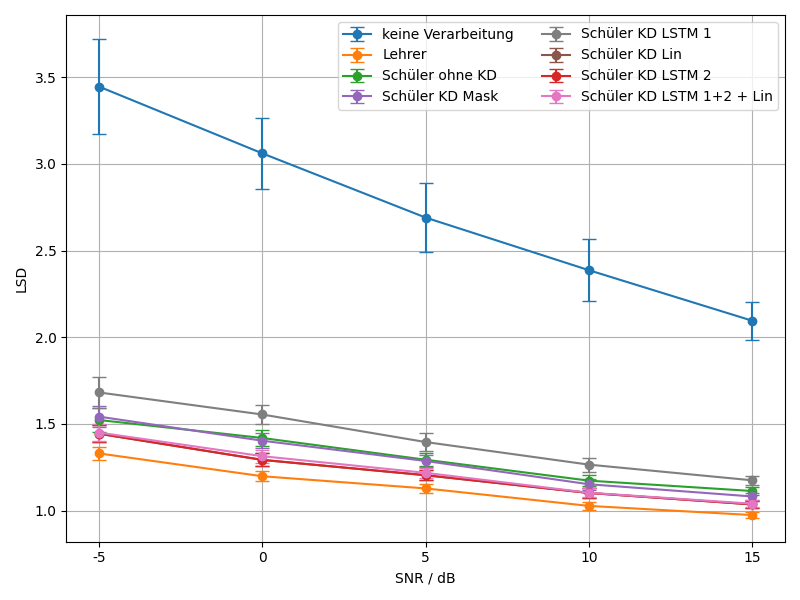
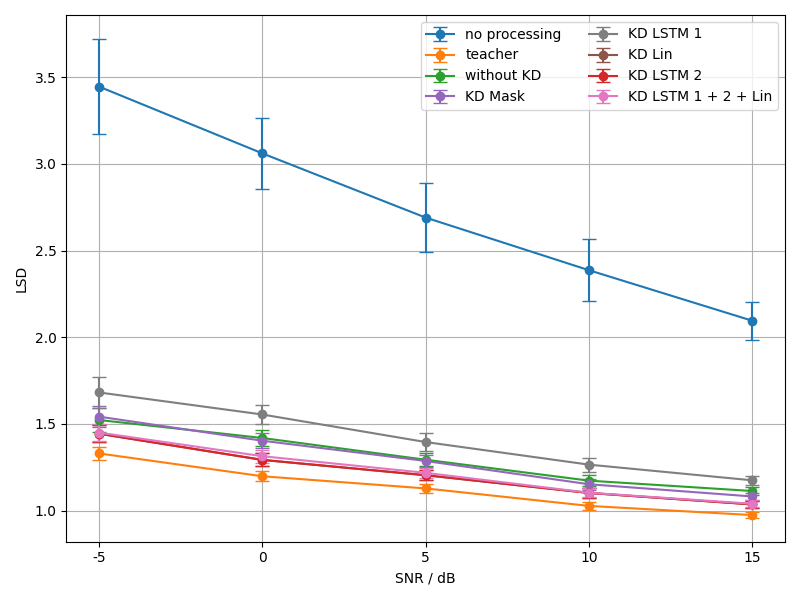
new plots for ITG Paper

Changed region(s): [[0.4375, 0.03, 0.9688, 0.18]]

diff --git a/scripts/plot_results.py b/scripts/plot_results.py
@@ -2,6 +2,7 @@ import pathlib
 import numpy as np
 import matplotlib.pyplot as plt
 import sys
+import os
 sys.path.insert(0, str(pathlib.Path(__file__).parent.parent))
 
 import metrics
@@ -9,30 +10,36 @@ from utils.json_handling import read_json
 
 cmap = plt.get_cmap('tab10')
 
-RESULTS_PATH = pathlib.Path('saved/test_output')
-MODELS_PATH = pathlib.Path('saved/models')
+parent_path = pathlib.Path(__file__).parent.parent
+RESULTS_PATH = parent_path.joinpath('saved/test_output')
+#RESULTS_PATH = pathlib.Path('saved/test_output')
+#MODELS_PATH = pathlib.Path('saved/models')
+MODELS_PATH = parent_path.joinpath('saved/models')
 
 out_folder = RESULTS_PATH.joinpath('plots')
 
 dict_list = [
-    {"configuration_name": 'noisy_oem_dummy', "run_string": 'default_run', "label": 'keine Verarbeitung', 'color': cmap(0), 'linestyle': '-'},
+    {"configuration_name": 'noisy_oem_dummy', "run_string": 'default_run', "label": 'no processing', 'color': cmap(0), 'linestyle': '-'},
     #{"configuration_name": 'diamond_5mic_tiny', "run_string": '0524_155539', "label": 'FT_JNF Tiny', 'color': cmap(1), 'linestyle': '-'}, # half model without KD
     #{"configuration_name": 'diamond_5mic_vtiny', "run_string": '0526_175613', "label": 'FT_JNF vTiny', 'color': cmap(2), 'linestyle': '-'}, # quarter model without KD
     #{"configuration_name": 'diamond_5mic_experiment', "run_string": '0502_161633', "label": 'FT_JNF', 'color': cmap(3), 'linestyle': '-'}, # teacher model
-    {"configuration_name": 'diamond_5mic_experiment', "run_string": '0801_143408', "label": 'Lehrer', 'color': cmap(1), 'linestyle': '-'}, # teacher with 8 batch size
+    {"configuration_name": 'diamond_5mic_experiment', "run_string": '0801_143408', "label": 'teacher', 'color': cmap(1), 'linestyle': '-'}, # teacher with 8 batch size
     #{"configuration_name": 'diamond_TwoSteps', "run_string": '0610_135810', "label": 'tiny FT_JNF KD MAE', 'color': cmap(6), 'linestyle': '-'}, # half model with elementwise absolute error with KD
     #{"configuration_name": 'diamond_TwoSteps', "run_string": '0614_233313', "label": 'vtiny FT_JNF KD MAE', 'color': cmap(7), 'linestyle': '-'}, # quarter model with elementwise absolute error with KD
-    {"configuration_name": "diamond_normal_trainlist", "run_string": '0917_105029', "label": 'Schüler ohne KD', 'color': cmap(2), 'linestyle': '-'}, # target model with normal training 64/16er: 0624_120334 5_mic_target
-    {"configuration_name": 'diamond_TwoSteps', "run_string": '0808_155225', "label": 'Schüler KD Mask', 'color': cmap(4), 'linestyle': '-'}, # target model with Mask KD MAE
-    {"configuration_name": 'diamond_TwoSteps', "run_string": '0701_172332', "label": 'Schüler KD LSTM 1', 'color': cmap(7), 'linestyle': '-'}, # target model with Regressor KD
-    {"configuration_name": 'diamond_LinD', "run_string": '0828_232658', "label": 'Schüler KD Lin', 'color': cmap(5), 'linestyle': '-'}, # target model MAE between Linear Layers 64/15er: 0806_165806 diamond_twoSteps
-    {"configuration_name": 'diamond_TS_ALLD', "run_string": '0817_200225', "label": 'Schüler KD LSTM 2', 'color': cmap(3), 'linestyle': '-'},
+    {"configuration_name": "diamond_normal_trainlist", "run_string": '0917_105029', "label": 'without KD', 'color': cmap(2), 'linestyle': '-'}, # target model with normal training 64/16er: 0624_120334 5_mic_target
+    {"configuration_name": 'diamond_TwoSteps', "run_string": '0808_155225', "label": 'KD Mask', 'color': cmap(4), 'linestyle': '-'}, # target model with Mask KD MAE
+    {"configuration_name": 'diamond_TwoSteps', "run_string": '0701_172332', "label": 'KD LSTM 1', 'color': cmap(7), 'linestyle': '-'}, # target model with Regressor KD
+    {"configuration_name": 'diamond_LinD', "run_string": '0828_232658', "label": 'KD Lin', 'color': cmap(5), 'linestyle': '-'}, # target model MAE between Linear Layers 64/15er: 0806_165806 diamond_twoSteps
+    {"configuration_name": 'diamond_TS_ALLD', "run_string": '0817_200225', "label": 'KD LSTM 2', 'color': cmap(3), 'linestyle': '-'},
     #{"configuration_name": 'diamond_TwoSteps', "run_string": '1023_132130', "label": 'Schüler LSTM 1', 'color': cmap(7), 'linestyle': '-'}, # between first LSTM layer
-    {"configuration_name": 'diamond_TwoSteps', "run_string": '1001_173125', "label": 'Schüler KD LSTM 1 + 2 + Lin', 'color': cmap(6), 'linestyle': '-'}, # t model MSE between Linear Layers
+    {"configuration_name": 'diamond_TwoSteps', "run_string": '1001_173125', "label": 'KD LSTM 1 + 2 + Lin', 'color': cmap(6), 'linestyle': '-'}, # t model MSE between Linear Layers
     #{"configuration_name": 'diamond_TwoSteps', "run_string": '0721_140838', "label": 't FT_JNF KD MSE-All', "color": cmap(7), "linestyle": '-'} # t model MSE between all layers
 ]
+# get the path of the parent folder
 
-test_config = read_json('test_configs/diamond_snr_test.json')
+
+test_config_path = parent_path.joinpath('test_configs/diamond_snr_test.json')
+test_config = read_json(test_config_path)
 
 plot_string = 'simulated_data_snr_results_' # UMBENNEN!
 
